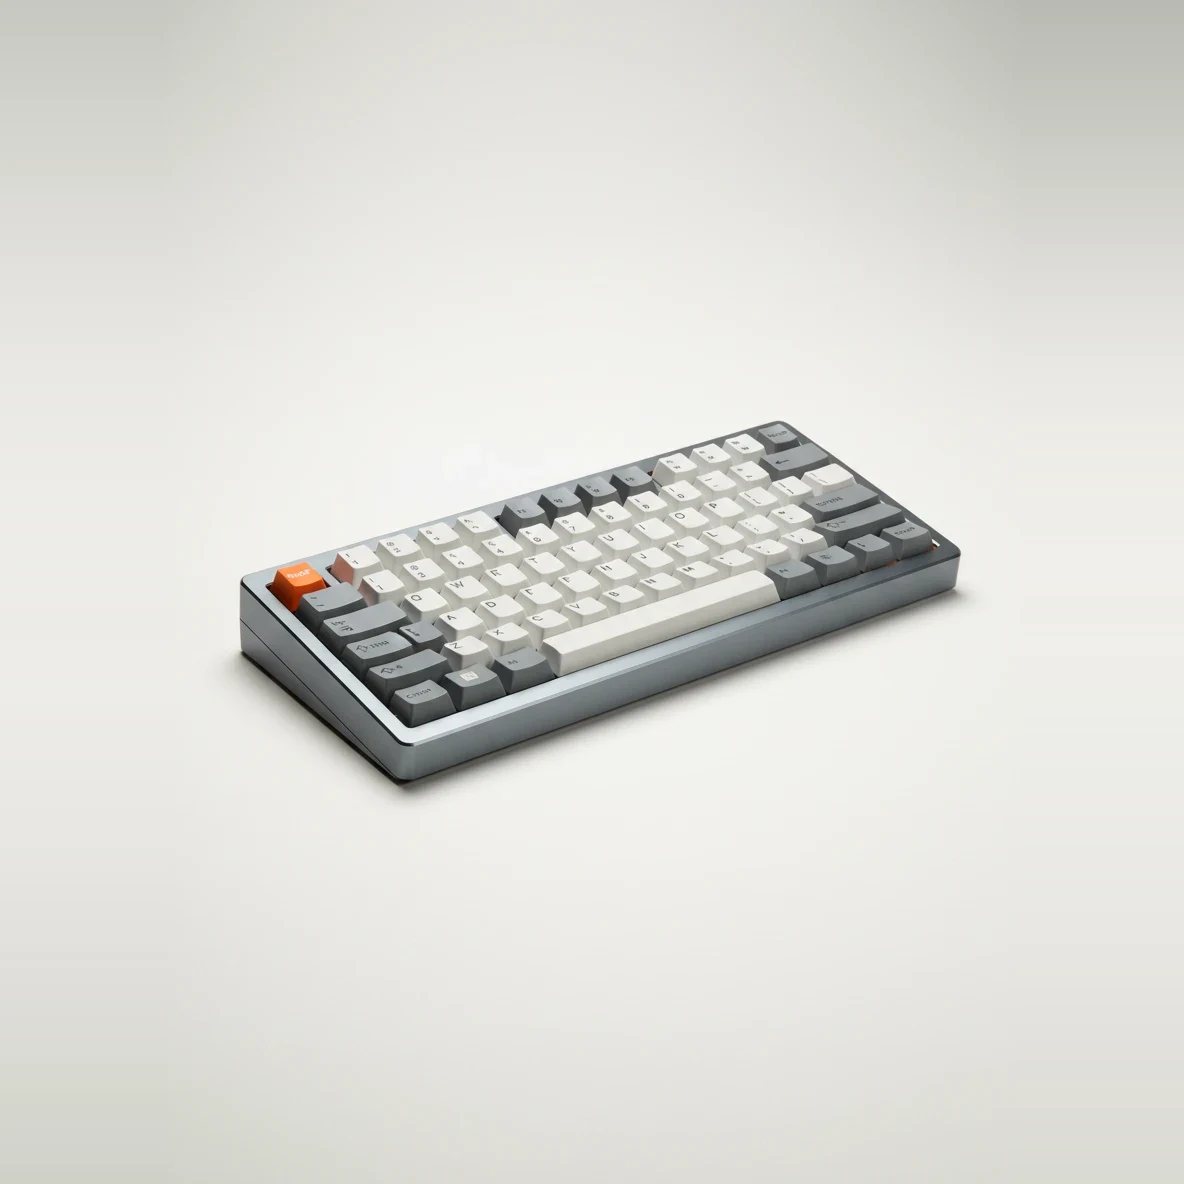
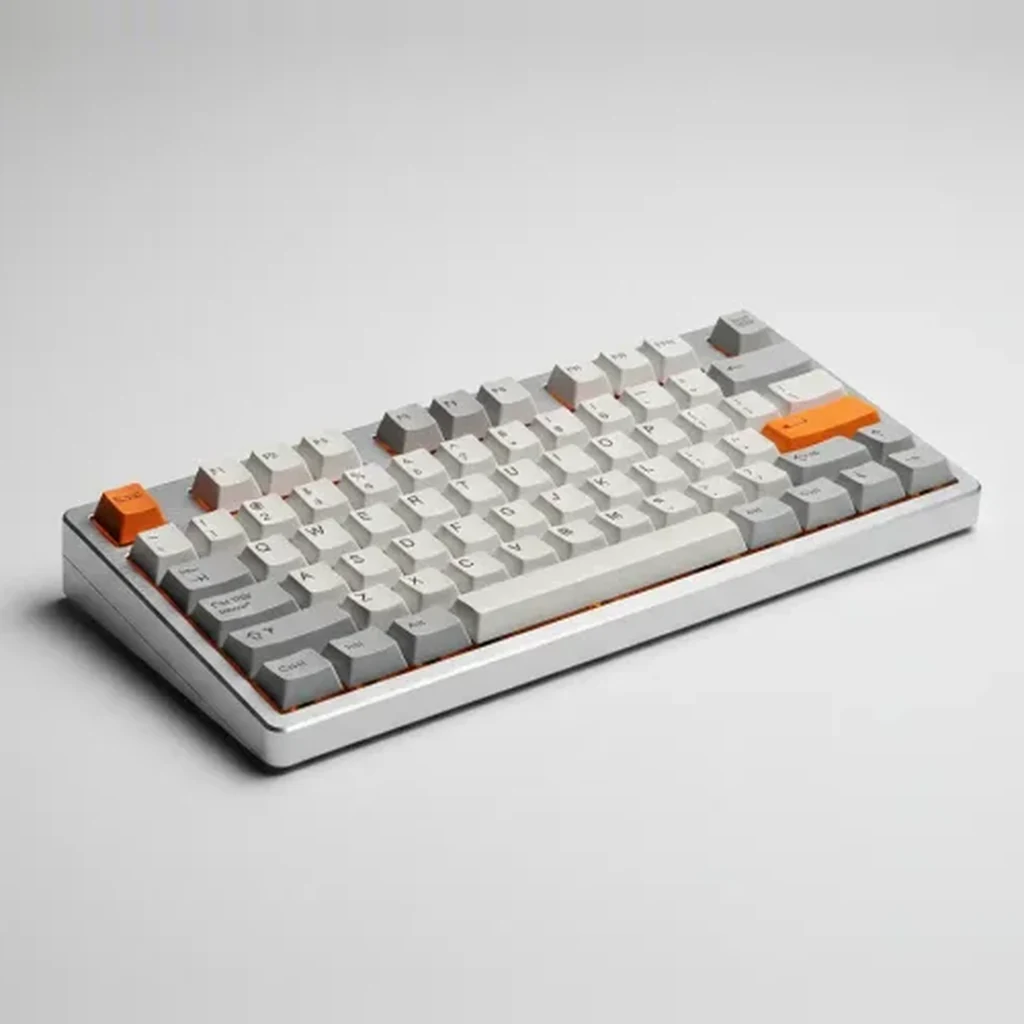
SikandarTech: add keyboard v2, robot vacuum dock, power station, travel drone and smart ring photos
Square crops around each product; the new keyboard photo replaces the first one.

Claude-Session: https://claude.ai/code/session_01Fw4vF5uHoBAz1xMyijAbmx

Changed region(s): [[0.0, 0.125, 0.9688, 0.7812], [0.8438, 0.0, 0.9375, 0.0312]]

diff --git a/sikandartech/catalog.js b/sikandartech/catalog.js
@@ -324,7 +324,7 @@ const PRODUCTS = [{"id":"ai-smart-glasses","cat":"ai-gadgets","name":"AI smart g
 {"id":"multisport-watches","cat":"wearables","name":"Multisport watches","icon":"device-watch-stats-2","status":"available","desc":"Training watches for running, cycling, swimming and triathlon.","specs":["100+ sport modes","Training load","Dual-band GPS","Water resistant 10ATM"]},
 {"id":"diving-smartwatches","cat":"wearables","name":"Diving smartwatches","icon":"device-watch","status":"available","desc":"Dive computers with smartwatch features.","specs":["100m+ dive rating","Dive log","Decompression data","Sapphire lens"]},
 {"id":"lte-smartwatches","cat":"wearables","name":"LTE smartwatches","icon":"device-watch-bolt","status":"available","desc":"Smartwatches with eSIM for calls and data without a phone.","specs":["eSIM LTE","Calls & messages","GPS","NFC payments"]},
-{"id":"smart-rings","cat":"wearables","name":"Smart rings","icon":"rings","status":"available","desc":"Discreet rings that track sleep, heart rate, activity and recovery.","specs":["Titanium body","HR & SpO2","Sleep staging","5–7 day battery"]},
+{"id":"smart-rings","cat":"wearables","name":"Smart rings","icon":"rings","status":"available","desc":"Discreet rings that track sleep, heart rate, activity and recovery.","specs":["Titanium body","HR & SpO2","Sleep staging","5–7 day battery"],"photo":"images/products/smart-rings.webp"},
 {"id":"sleep-tracking-rings","cat":"wearables","name":"Sleep-tracking rings","icon":"moon-stars","status":"available","desc":"Rings focused on detailed sleep and recovery insights.","specs":["Sleep stages","Skin temperature","HRV","Readiness score"]},
 {"id":"fitness-bands","cat":"wearables","name":"Fitness bands","icon":"activity","status":"available","desc":"Lightweight bands tracking steps, heart rate and sleep.","specs":["AMOLED display","100+ sports","SpO2","14-day battery"]},
 {"id":"screenless-health-trackers","cat":"wearables","name":"Screenless health trackers","icon":"heartbeat","status":"available","desc":"Display-free bands for 24/7 health and recovery data.","specs":["Continuous HR","Strain & recovery","Waterproof","Subscription app"]},
@@ -415,7 +415,7 @@ const PRODUCTS = [{"id":"ai-smart-glasses","cat":"ai-gadgets","name":"AI smart g
 {"id":"motorized-camera-dollies","cat":"cameras","name":"Motorized camera dollies","icon":"truck","status":"available","desc":"Motorised dollies and robotic arms for repeatable shots.","specs":["Programmable moves","App control","Payload rated","Time-lapse"]},
 {"id":"3d-scanners","cat":"cameras","name":"3D scanners","icon":"scan","status":"available","desc":"Scanners that turn real objects into 3D models.","specs":["0.05mm accuracy","Structured light / laser","Colour texture","Handheld"]},
 {"id":"professional-camera-drones","cat":"drones-robotics","name":"Professional camera drones","icon":"drone","status":"available","desc":"High-end drones with large sensors for aerial photography and film.","specs":["4/3 sensor","5.1K video","Obstacle avoidance","40+ min flight"],"photo":"images/products/professional-camera-drones.webp"},
-{"id":"compact-travel-drones","cat":"drones-robotics","name":"Compact travel drones","icon":"drone","status":"available","desc":"Lightweight foldable drones under 249g for travel.","specs":["Under 249g","4K HDR","30+ min flight","Foldable"]},
+{"id":"compact-travel-drones","cat":"drones-robotics","name":"Compact travel drones","icon":"drone","status":"available","desc":"Lightweight foldable drones under 249g for travel.","specs":["Under 249g","4K HDR","30+ min flight","Foldable"],"photo":"images/products/compact-travel-drones.webp"},
 {"id":"fpv-drones","cat":"drones-robotics","name":"FPV drones","icon":"drone","status":"available","desc":"First-person-view drones with goggles for immersive flight.","specs":["FPV goggles","Motion controller","4K","Emergency brake"]},
 {"id":"racing-drones","cat":"drones-robotics","name":"Racing drones","icon":"drone","status":"available","desc":"High-speed drones for competitive racing.","specs":["5\" frame","High KV motors","Low-latency video","Durable carbon"]},
 {"id":"cinematic-fpv-drones","cat":"drones-robotics","name":"Cinematic FPV drones","icon":"drone","status":"available","desc":"Ducted cinewhoop drones for smooth indoor and close-proximity shots.","specs":["Ducted propellers","4K stabilised","Compact","GoPro mount"]},
@@ -445,7 +445,7 @@ const PRODUCTS = [{"id":"ai-smart-glasses","cat":"ai-gadgets","name":"AI smart g
 {"id":"window-cleaning-robots","cat":"drones-robotics","name":"Window-cleaning robots","icon":"window","status":"available","desc":"Robots that clean windows and glass walls automatically.","specs":["Suction adhesion","Edge detection","Spray system","Safety rope"]},
 {"id":"robotic-pool-cleaners","cat":"drones-robotics","name":"Robotic pool cleaners","icon":"swimming","status":"available","desc":"Cordless robots that clean pool floors and walls.","specs":["Cordless","Wall climbing","Filter basket","Smart routes"]},
 {"id":"robotic-vacuum-cleaners","cat":"drones-robotics","name":"Robotic vacuum cleaners","icon":"vacuum-cleaner","status":"available","desc":"Robot vacuums that map and clean your home automatically.","specs":["LiDAR mapping","8000Pa+ suction","Obstacle avoidance","App control"]},
-{"id":"robot-vacuum-mop-systems","cat":"drones-robotics","name":"Robot vacuum-mop systems","icon":"vacuum-cleaner","status":"available","desc":"All-in-one robots that vacuum, mop and self-clean.","specs":["Auto-empty","Mop washing & drying","Hot water","Carpet detection"]},
+{"id":"robot-vacuum-mop-systems","cat":"drones-robotics","name":"Robot vacuum-mop systems","icon":"vacuum-cleaner","status":"available","desc":"All-in-one robots that vacuum, mop and self-clean.","specs":["Auto-empty","Mop washing & drying","Hot water","Carpet detection"],"photo":"images/products/robot-vacuum-mop-systems.webp"},
 {"id":"stair-climbing-cleaning-robots","cat":"drones-robotics","name":"Stair-climbing cleaning robots","icon":"vacuum-cleaner","status":"coming","desc":"Next-gen cleaning robots that climb stairs between floors.","specs":["Stair-climbing mechanism","Multi-floor maps","Vacuum & mop","AI vision"]},
 {"id":"autonomous-mobile-robots","cat":"drones-robotics","name":"Autonomous mobile robots","icon":"robot","status":"available","desc":"AMRs for factories, hospitals and logistics.","specs":["SLAM navigation","Payload modules","Fleet software","Safety certified"]},
 {"id":"exoskeleton-assistance-devices","cat":"drones-robotics","name":"Exoskeleton assistance devices","icon":"walk","status":"available","desc":"Powered exoskeletons that reduce strain while lifting or walking.","specs":["Hip / back assist","Lightweight","Battery powered","Industrial / mobility"]},
@@ -563,7 +563,7 @@ const PRODUCTS = [{"id":"ai-smart-glasses","cat":"ai-gadgets","name":"AI smart g
 {"id":"laptop-power-banks","cat":"power","name":"Laptop power banks","icon":"battery-4","status":"available","desc":"Power banks that can charge laptops through USB-C.","specs":["25,000mAh+","100–250W","Multi-port","Display"]},
 {"id":"solar-power-banks","cat":"power","name":"Solar power banks","icon":"solar-panel","status":"available","desc":"Rugged power banks with built-in solar panels.","specs":["Solar panel","Waterproof","Flashlight","20,000mAh+"]},
 {"id":"rugged-outdoor-power-banks","cat":"power","name":"Rugged outdoor power banks","icon":"battery-4","status":"available","desc":"Shock- and water-resistant power banks for outdoor use.","specs":["IP67","Shockproof","Flashlight","Wireless charging"]},
-{"id":"portable-power-stations","cat":"power","name":"Portable power stations","icon":"battery-automotive","status":"available","desc":"Battery generators for camping, backup and off-grid power.","specs":["300–3600Wh LiFePO4","AC outlets","Solar input","UPS mode"]},
+{"id":"portable-power-stations","cat":"power","name":"Portable power stations","icon":"battery-automotive","status":"available","desc":"Battery generators for camping, backup and off-grid power.","specs":["300–3600Wh LiFePO4","AC outlets","Solar input","UPS mode"],"photo":"images/products/portable-power-stations.webp"},
 {"id":"expandable-battery-systems","cat":"power","name":"Expandable battery systems","icon":"battery-automotive","status":"available","desc":"Power stations with add-on batteries for more capacity.","specs":["Expandable to 10kWh+","LiFePO4","App","Fast recharge"]},
 {"id":"home-battery-storage","cat":"power","name":"Home battery storage","icon":"home-bolt","status":"available","desc":"Wall or floor batteries that store solar energy for home use.","specs":["5–20kWh","Hybrid inverter","Backup power","App monitoring"]},
 {"id":"portable-solar-panels","cat":"power","name":"Portable solar panels","icon":"solar-panel-2","status":"available","desc":"Lightweight solar panels for power stations.","specs":["100–400W","Monocrystalline","Kickstand","MC4 / Anderson"]},
